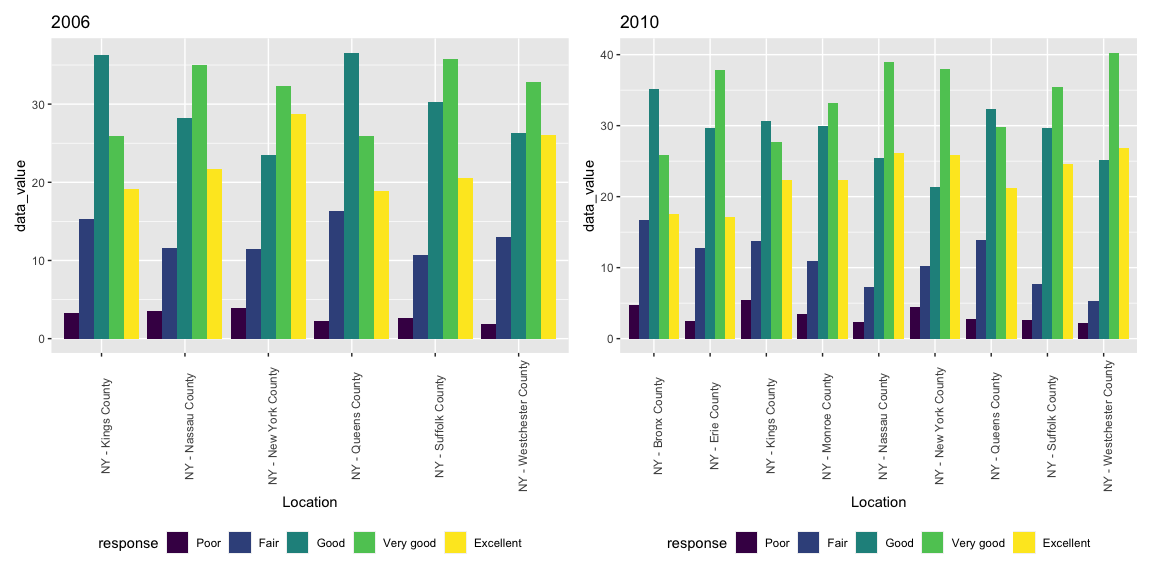
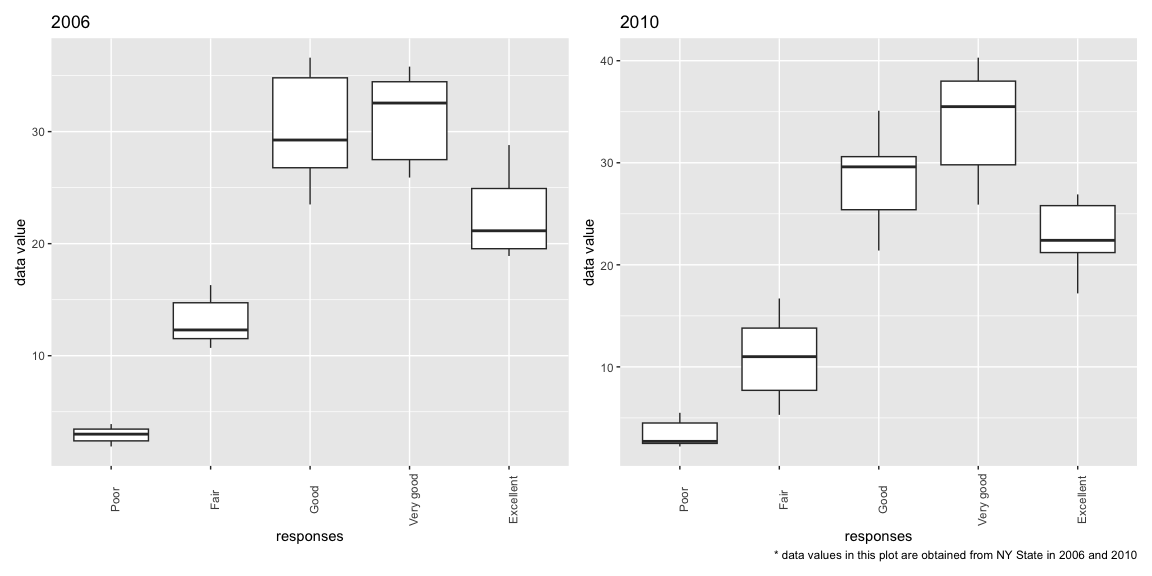
updated graphs and comments

diff --git a/p8105_hw3_yj2803.md b/p8105_hw3_yj2803.md
@@ -194,9 +194,6 @@ df_brfss_cleaned <- brfss_smart2010 |>
   )
 ```
 
-- In 2002, which states were observed at 7 or more locations? What about
-  in 2010?
-
 ``` r
 # check 2002
 df_brfss_2002 <- df_brfss_cleaned |> 
@@ -215,12 +212,6 @@ df_brfss_2010 <- df_brfss_cleaned |>
 
 7 or more locations were observed in CT, FL, MA, NC, NJ, PA in 2002; CA,
 CO, FL, MA, MD, NC, NE, NJ, NY, OH, PA, SC, TX, WA in 2010.
-
-- Construct a dataset that is limited to `Excellent` responses, and
-  contains, year, state, and a variable that averages the `data_value`
-  across locations within a state. Make a “spaghetti” plot of this
-  average value over time within a state (that is, make a plot showing a
-  line for each state across years).
 
 ``` r
 # create a dataset that is limited to "Excellent" responses
@@ -250,10 +241,6 @@ df_brfss_excellent |>
 The graph indicates that the average value among people who responded
 Excellent in each state is slightly decreasing over the year.
 
-- Make a two-panel plot showing, for the years 2006, and 2010,
-  distribution of `data_value` for responses (“Poor” to “Excellent”)
-  among locations in NY State.
-
 ``` r
 library(patchwork) # to create a two-panel plot
 
@@ -266,33 +253,35 @@ df_ny_2010 <- df_brfss_cleaned |>
   
 # plot for 2006
 p_ny_2006 = df_ny_2006 |> 
-  ggplot(aes(x = locationdesc, y = data_value, fill = response)) +
-  geom_bar(stat = "identity", position = "dodge") +
+  ggplot(aes(x = response, y = data_value)) +
+  geom_boxplot() +
   theme(legend.position = "bottom", axis.text.x = element_text(angle = 90)) + # change the legend location
   labs(
     title = "2006",
-    x = "Location",
-  ) +
-  viridis::scale_fill_viridis(discrete = TRUE)
+    x = "responses",
+    y = "data value"
+  )
 
 # plot for 2010
 p_ny_2010 = df_ny_2010 |> 
-  ggplot(aes(x = locationdesc, y = data_value, fill = response)) +
-  geom_bar(stat = "identity", position = "dodge") +
+  ggplot(aes(x = response, y = data_value)) +
+  geom_boxplot() +
   theme(legend.position = "bottom", axis.text.x = element_text(angle = 90)) + # change the legend location
   labs(
     title = "2010",
-    x = "Location",
-  ) +
-  viridis::scale_fill_viridis(discrete = TRUE)
+    x = "responses",
+    y = "data value",
+    caption = "* data values in this plot are obtained from NY State in 2006 and 2010"
+  ) 
 
 p_ny_2006 + p_ny_2010 # put two plots side by side
 ```
 
 ![](p8105_hw3_yj2803_files/figure-gfm/unnamed-chunk-13-1.png)<!-- -->
-From this graph, we can tell that those who responded Excellent in New
-York County has the highest data value among all in 2006; in 2010,
-Westchester County has the highest data value.
+The boxplots shows the data values by responses (2006 vs 2010). From
+this graph, we can tell that those who responded “Very good” have the
+highest data values, and those who responded “Poor” have the lowest data
+values in both 2006 and 2010.
 
 # Problem 3
 
@@ -359,35 +348,22 @@ the largest in both sex.
 **The age distribution**
 
 ``` r
-# male
-age_male = df_mims_cleaned |> 
-  filter(sex == "male") |> 
-  ggplot(aes(x = education, y = age)) +
-  geom_boxplot(aes(fill = education), alpha = .5) + # make a boxplot for male
+# boxplot of age distribution
+df_mims_cleaned |> 
+  ggplot(aes(x = sex, y = age)) +
+  geom_boxplot(aes(fill = sex), alpha = .5) + 
   labs(
-    title = "Male"
+    title = "Boxplot of age distribution by sex and education level"
   ) +
+  facet_grid(~ education) +
   theme(legend.position = "bottom") +
   viridis::scale_fill_viridis(discrete = TRUE)
-  
-# female
-age_female = df_mims_cleaned |> 
-  filter(sex == "female") |> 
-  ggplot(aes(x = education, y = age)) +
-  geom_boxplot(aes(fill = education), alpha = .5) + # make a boxplot for female
-  labs(
-    title = "Female"
-  ) +
-  theme(legend.position = "bottom") +
-  viridis::scale_fill_viridis(discrete = TRUE)
-
-age_male + age_female # combine two graphs
 ```
 
 ![](p8105_hw3_yj2803_files/figure-gfm/unnamed-chunk-16-1.png)<!-- -->
 The boxplot shows that among male, the lower the education level is, the
-older the age is. Among female, those who received high school
-equivalent education appears to have the highest median age.
+older the age is. Among female, those who received “high school
+equivalent” education appears to have the highest median age.
 
 **Total activity**
 
@@ -414,11 +390,11 @@ df_mims_cleaned |>
 ![](p8105_hw3_yj2803_files/figure-gfm/unnamed-chunk-17-1.png)<!-- -->
 The graph shows total activity value against age in each sex and
 education level. In “less than high school” education level, young
-people in their 20s-40s, especially women, are the most active. In “high
-school equivalent” education level, both men and women in their 30s to
-50s are the most active. In “more than high school” education level,
-older people (60s~) maintain a relatively high total activity level
-compared to other education levels.
+people in their 20-40s, especially women, are generally more active. In
+“high school equivalent” education level, both men and women in their
+30-50s are the most active. In “more than high school” education level,
+older people (60s~) maintain a relatively high level of total activity,
+with a less steep decline than other education levels.
 
 **24-hour activity time courses**
 
@@ -444,8 +420,8 @@ df_mims_cleaned |>
 The plots indicate that in “less than high school” education level, the
 maximum values of the mean activity values are the highest among all. In
 “more than high school” education level, we can see that people maintain
-relatively high activity level from the morning to the evening, whereas
-“less than high school” education level group shows some decline in the
-activity level in the evening. Across the all education level, female
-generally has higher activity level during the day than male, and it
-becomes lower than male during the night.
+relatively high activity level from morning to evening whereas “less
+than high school” education level group shows a slight decrease in
+activity level in the evening. At all education level, females generally
+have higher activity levels during the day than males, and lower levels
+than males at night.
